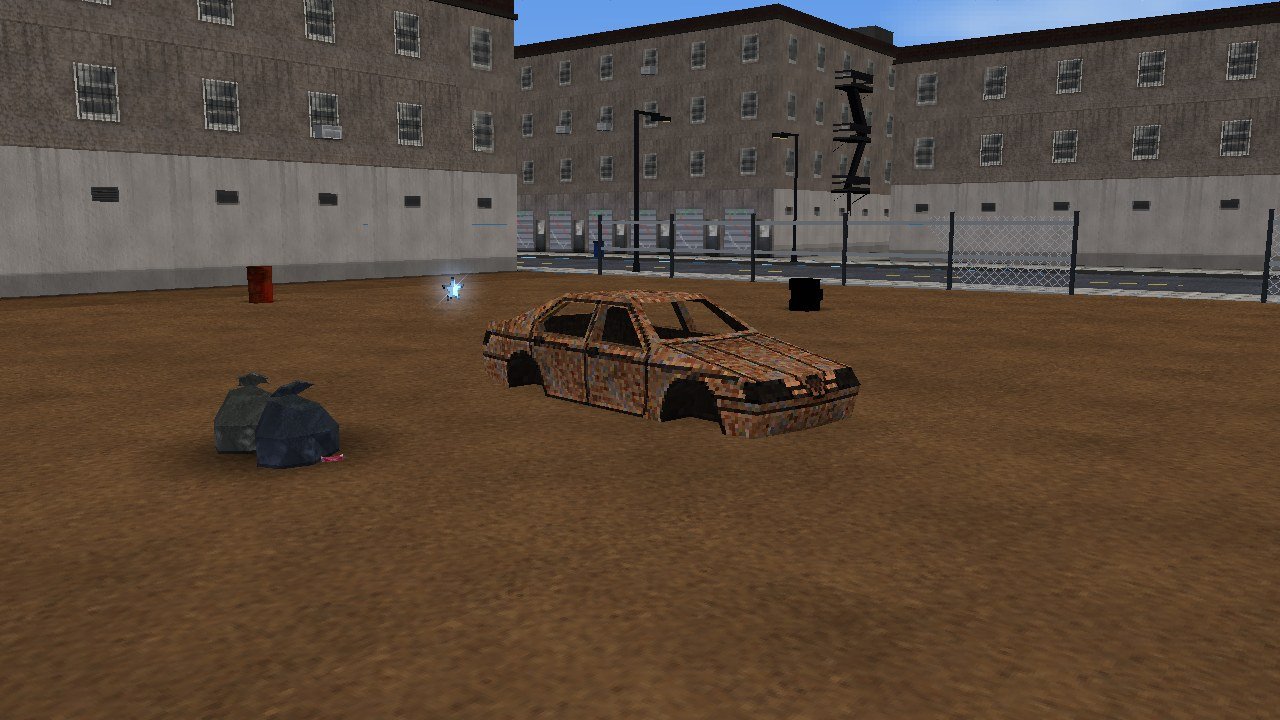
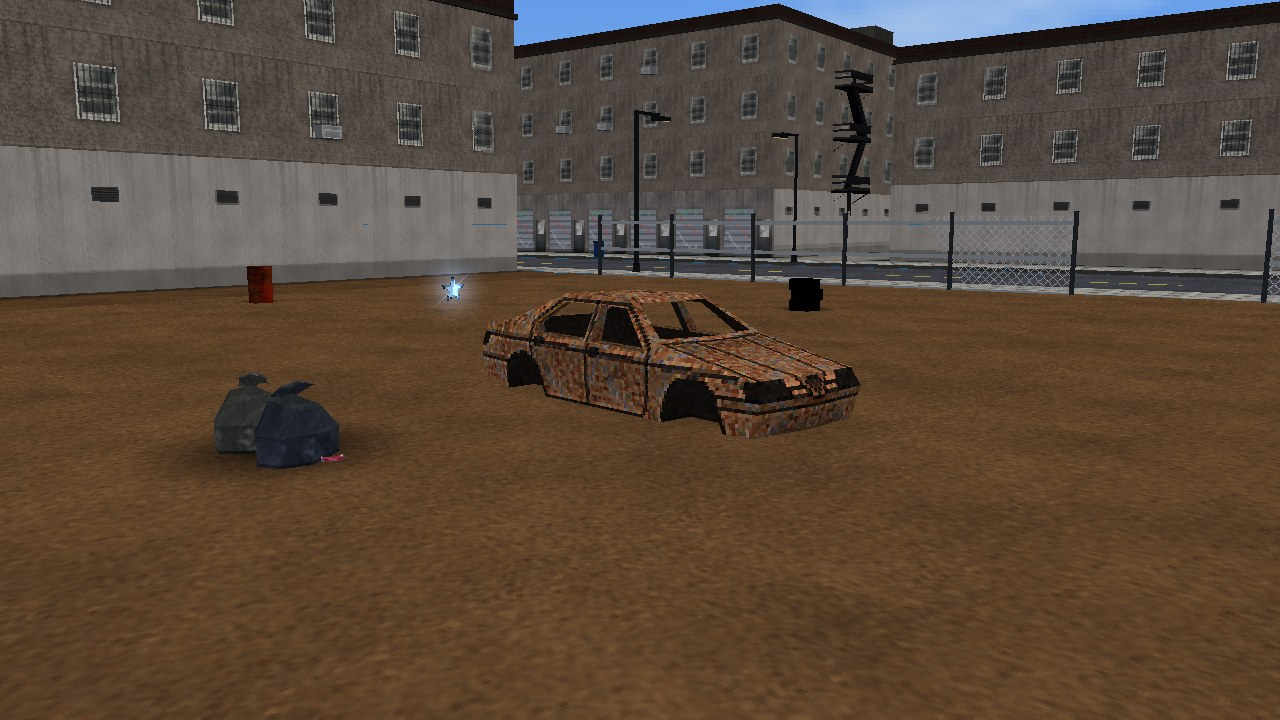
WIP 0.8.0: README, CREDITS, снимки

Changed region(s): [[0.625, 0.0, 0.75, 0.0611], [0.8125, 0.0, 0.9688, 0.0306]]

diff --git a/tools/make_screenshots.py b/tools/make_screenshots.py
@@ -402,12 +402,12 @@ def main():
     yaw = -0.25
     fx, fy = math.cos(yaw), math.sin(yaw)
     cx, cy = bx + 6.0, by
-    for kind, paint, f, l in (('shade', 3, 0.0, 0.0), ('gti', 0, 0.3, 3.4), ('coupe', 9, -0.2, -3.4),
-                              ('coupe', 1, -5.4, 2.0), ('gti', 6, -5.8, -2.0)):
+    for kind, paint, f, l in (('shade', 3, 0.0, 0.0), ('gti', 0, 0.4, 3.3), ('coupe', 9, -0.1, -3.3),
+                              ('coupe', 1, -5.4, 1.8), ('gti', 10, -5.7, -1.6), ('shade', 5, -5.2, 5.2)):
         v = w.spawn_vehicle(kind, cx + fx * f - fy * l, cy + fy * f + fx * l, yaw, paint=paint)
         v.keep = True
         row.append(v)
-    view(cx + math.cos(yaw - 0.5) * 10.0, cy + math.sin(yaw - 0.5) * 10.0, 2.5, cx - fx * 2.0, cy - fy * 2.0, 0.6)
+    view(cx + math.cos(yaw - 0.45) * 8.2, cy + math.sin(yaw - 0.45) * 8.2, 3.1, cx - fx * 2.4, cy - fy * 2.4, 0.5)
     snap('cars')
     for v in row:
         w.remove_vehicle(v)
@@ -420,12 +420,12 @@ def main():
     q = w.spawn_ped(cx, cy - 4.0, 0.0, story.person_look('bruce'))
     q.keep = True
     w.put_in_vehicle(q, v)
-    harness.run(g, 0.6, keys=('space', 'a'))
-    w.cam.override = (cx + fx * 3.5 - fy * 2.1, cy + fy * 3.5 + fx * 2.1, 1.5, cx + fx * 0.25, cy + fy * 0.25, 0.92)
-    nohelp(('space', 'a'))
+    harness.run(g, 0.6, keys=('space',))
+    w.cam.override = (cx + fx * 3.9 - fy * 1.3, cy + fy * 3.9 + fx * 1.3, 1.6, cx + fx * 0.6, cy + fy * 0.6, 0.98)
+    nohelp(('space',))
     w.hud.show(False)
-    harness.run(g, 0.2, keys=('space', 'a'))
-    snap('hero', ('space', 'a'))
+    harness.run(g, 0.2, keys=('space',))
+    snap('hero', ('space',))
     w.cam.override = None
     pl.leave_vehicle(force=True)
     harness.run(g, 0.6)

diff --git a/assets/models/CREDITS.md b/assets/models/CREDITS.md
@@ -12,9 +12,10 @@
 | Такси (`veh/cab`) | **MoiDev** — «Yellow Taxi/Cab — PS1 Style» (<https://moidev.itch.io/yellow-taxicab-ps1-style>) | CC0 на странице автора; у копии, из которой собрана модель, — CC-BY-SA 4.0, см. примечание | выгрузка модели со Sketchfab в репозитории `Langorithm/3d-models` (`yellow_taxicab_-_ps1_car/`) |
 | Чоппер «Ворон» (`veh/b_chop`) | **Duhgless** — «Another PSX Style Low Poly Bike» (<https://duhgless.itch.io/another-psx-style-low-poly-bike>) | CC0 | репозиторий `webbertakken/citymap` (`apps/web/public/models/vehicles/motorbike.glb`) |
 | Уличный мусор: контейнер, бочка, мешок, коробка, бутылка, банка (`props.json`, `assets/tex/px_*`) | **Daniel Jurys** — «PSX Waste» (<https://daniel-jurys.itch.io/psx-waste>) | CC0 | копия набора в репозитории `morganholly/bike-bullet-delivery` (`enviroment/PSX-Waste`) |
-| Плашки интерфейса (`assets/tex/ui_panel`, `ui_band`, `ui_plate`, `ui_alert`) | **ROHHSA** — «Free PSX UI» (<https://rohhsa.itch.io/free-psx-ui>) | CC0 | копия набора в репозитории `Balwanek-ola/haven-2026` (`FREEPSXUI/`) |
-| Маршрутка и старый седан «Ржавчина» (`veh/hiace`, `veh/dacia`) | **Elbolilloduro** — «Pack of low poly psx style models» | см. примечание | сборник `M3-org/retro3d-assets` (`Large_kits/Models pack psx`) |
-| Седан «Кирпич» (`veh/volvo`) | файл `Vehicles/volvo.blend` сборника; по его списку это, по-видимому, **GGBot** — «European small family car (1960s and 1970s)» | см. примечание | сборник `M3-org/retro3d-assets` |
+| **Машина героя «Ласточка»** (`veh/retro`) | **Bricchi Games** — «Retro Car With Interior» (<https://bricchi-games.itch.io/retro-car-with-interior>) | **CC BY 4.0** (<https://creativecommons.org/licenses/by/4.0/>): автора нужно называть; см. примечание | копия набора `Retro Car-1.0` в репозитории `Alekssandher/The-Gandmas-House` (`assets/Retro Car-1.0/`) |
+| Седан «Тень» и машина агентов (`veh/sus`) | **MoiDev** — «Suspicious Car — PSX Style Car» (<https://moidev.itch.io/a-suspicious-car-for-your-projects>) | CC0 | копия в репозитории `muricristino/walking-simulator-paulista` (`assets/cars/moidev/`) |
+| Хэтчбек «Зажигалка» (`veh/golf`) | **designersoup** — «PS1 Pixel Art Style Car» (<https://designersoup.itch.io/ps1-pixel-art-style-car>) | слова автора: «cc0 – no attribution required for personal or commercial projects but must not be resold» | копия в репозитории `Soursop-Pop/Roadtrip` (`Assets/Prefabs/car/`) |
+| Купе «Катана» (`veh/coupe`) | **boggle** — «PSX Car — 2 Seater Coupe» (<https://boggle.itch.io/2-seater-coupe>) | файла лицензии нет; автор разрешает использовать в проектах и запрещает перепродавать как ассет, см. примечание | копия в репозитории `KopiOCoder/FormulaCyber` (`cars/japanese_2_seater_coupe/`) |
 | Автобус (`veh/bus`) | код проекта, `tools/gen_bus.py` | — | — |
 | Мотоцикл-круизер (`veh/b_moto`): с достроенным оборудованием — «Странник», патрульный, трайк «Мамонт», «Тайга» с коляской | **Kenney** — Starter Kit Racing | CC0 | репозиторий автора `KenneyNL/Starter-Kit-Racing` |
 | Городской велосипед (`veh/b_cycle`) | файл `Vehicles/bike_vintage (unfinished).blend` сборника; автор в его списке не назван | см. примечание | сборник `M3-org/retro3d-assets` |
@@ -92,25 +93,21 @@ Elbolilloduro (`src/lib/RigConfig.ts`).
 от Quaternius (`tools/import_models.py weapons`); бутылка — тоже его, из набора Survival
 (`tools/import_vehicles.py bottle`): раньше «коктейлем Молотова» служила модель зажигательной гранаты.
 
-## Примечание о новых машинах и велосипеде
+## Примечание о городском велосипеде
 
-Маршрутка и старый седан взяты из того же набора Elbolilloduro, что и мебель (в сборнике он лежит ещё и одним
-файлом — `Large_kits/Models pack psx`), на тех же условиях: модели лежат в собранном виде как часть игры, автор
-назван, сам набор берите у автора.
-
-Седан «Кирпич» и городской велосипед лежат в папке `Vehicles` сборника отдельными файлами, без подписи.
+Городской велосипед лежит в папке `Vehicles` сборника `M3-org/retro3d-assets` отдельным файлом, без подписи.
 О сборнике в целом сказано: всё в нём можно использовать в коммерческих проектах, без указания авторства и без
 условия «распространять на тех же условиях»; в исходном сборнике (`Miziziziz/Retro3DGraphicsCollection`), из
-которого он вырос, от авторов требуется выкладывать работы под CC0. Чьи именно эти два файла, мы установить не
-смогли:
+которого он вырос, от авторов требуется выкладывать работы под CC0. Чей это файл, мы установить не смогли: он
+называется «bike_vintage (unfinished)», в списке сборника его нет. Седла в нём не было: оно взято из набора
+Quaternius.
 
-- «Кирпич» — в списке сборника из машин значится только «European small family car (1960s and 1970s)» автора
-  GGBot; что это именно он — догадка, страницу автора мы открыть не смогли;
-- велосипед — файл называется «bike_vintage (unfinished)», в списке сборника его нет. Седла в нём не было:
-  оно взято из набора Quaternius.
+Если автор попросит убрать модель, её нужно будет заменить: функция `bike_cycle` в `tools/import_vehicles.py`,
+соответствие видам техники — в `game/bikemodels.py`.
 
-Если автор попросит убрать модель, её нужно будет заменить: таблицы — в `tools/import_vehicles.py`
-(`CARS`, функции `bike_*`), соответствие видам техники — в `game/models.py` и `game/bikemodels.py`.
+До версии 0.8.0 из того же сборника были взяты ещё три машины — седан «Кирпич», маршрутка и старый седан
+«Ржавчина» на отдельных моделях. Теперь их нет: «Кирпич» убран, маршрутка и «Ржавчина» снова собраны на кузовах
+GGBot, файлы моделей удалены.
 
 ## Примечание о мотоциклах
 
@@ -155,11 +152,35 @@ Elbolilloduro (`src/lib/RigConfig.ts`).
 
 ## Примечание о моделях с itch.io
 
-Такси, чоппер, уличный мусор и плашки интерфейса авторы выложили на itch.io как CC0 (адреса страниц — в
-таблице). Скачать файлы прямо со страниц при сборке проекта не получилось, поэтому взяты их копии из открытых
-репозиториев на GitHub; какой репозиторий и какая его версия — записано в таблице `SOURCES` в
-`tools/import_vehicles.py`, команда `fetch` скачивает ровно эти файлы.
+Такси, чоппер, уличный мусор и четыре машины — «Тень», «Зажигалка», «Катана» и «Ласточка» — взяты у авторов,
+которые выкладывают свои работы на itch.io (адреса страниц — в таблице). Скачать файлы прямо со страниц при
+сборке проекта не получилось, поэтому взяты их копии из открытых репозиториев на GitHub; какой репозиторий и
+какая его версия — записано в таблице `SOURCES` в `tools/import_vehicles.py`, команда `fetch` скачивает ровно
+эти файлы. Условия использования — те, что назвал автор на своей странице; что написано в репозитории-копии,
+значения не имеет.
 
+- **Машина героя («Ласточка»).** «Retro Car With Interior», автор **Bricchi Games**, лицензия **Creative
+  Commons Attribution 4.0 International**: использовать и изменять можно, в том числе в коммерческих проектах,
+  при условии, что автор назван. В игре он назван в титрах и на странице «Авторы» главного меню, в `README.txt`
+  сборки, в `README.md` и здесь. Что изменено: из набора взят файл `Car.fbx` (по описанию автора — 3092
+  треугольника, двенадцать деталей) и четыре текстуры 1024×1024 — белая, чёрная, синяя и красная. Модель приведена к осям и размерам
+  игры (ширина 1,71 м, длина 4,73 м) и записана в `.bam`; колёса отделены; текстура уменьшена до 512×512; по
+  различиям между четырьмя окрасками найдена краска кузова — так машину можно перекрашивать в любой цвет;
+  стёкла выделены в отдельную часть (в игре они тёмные и прозрачные), рулевое колесо — в отдельную деталь (оно
+  поворачивается); записаны места водителя и трёх пассажиров. Карта свечения из набора не использована. Двери,
+  капот и багажник — отдельные детали набора — в игре не открываются.
+- **«Тень».** «Suspicious Car — PSX Style Car» автора MoiDev, CC0: 846 треугольников, шесть окрасок 256×256.
+  В копии файл назван `sedan.obj`, а на переднем номере вместо надписи автора нарисована своя; текстуры взяты
+  как есть. Колёсные арки у модели нарисованы на бортах: игра вырезает их по отдельной картинке
+  (`veh/sus_cut.png`). Краска найдена по различиям между окрасками. На той же модели ездят агенты.
+- **«Зажигалка».** Хэтчбек designersoup («PS1 Pixel Art Style Car», Mk2 Golf GTI). В копии — OBJ, сохранённый
+  её владельцем из исходного `golfps1.fbx`, и одна красная текстура 512×512. Окраска одна, поэтому краска
+  найдена по цвету: красные точки кузова, кроме задних фонарей.
+- **«Катана».** Двухместное купе boggle: в файле половина кузова (вторая получается отражением), колесо —
+  отдельным файлом, десять окрасок 128×128. Файла лицензии в наборе нет. В обсуждении на странице набора автор
+  пишет, что модель можно свободно включать в коммерческие и некоммерческие проекты, но нельзя перепродавать
+  как ассет или в наборе ассетов. Мы понимаем это так же, как условие designersoup: в игре — можно, продавать
+  саму модель — нельзя. Если вам нужна модель, берите её у автора.
 - **Такси.** Копия — выгрузка модели со Sketchfab; в приложенном к ней `license.txt` указана лицензия
   **CC-BY-SA 4.0**: «Yellow Taxi/Cab — PS1 Car», автор MoiDev. На странице той
   же модели на itch.io автор пишет, что это CC0 и указывать его не обязательно. Мы поступаем по более строгому
@@ -174,17 +195,28 @@ Elbolilloduro (`src/lib/RigConfig.ts`).
 - **Мусор.** Шесть моделей `.glb` с текстурами 128×128 и 256×256. Импорт приводит их к настоящим размерам
   (контейнер 1,4 × 2,0 × 1,4 м, бочка 0,6 × 0,9 м, мешок по пояс), заливает пустые места текстур цветом
   соседних точек и записывает треугольники в `props.json`.
-- **Плашки.** Из набора взята одна картинка — пустая плашка `Cropped_Text-Block` в четырёх расцветках
-  (стальная синяя, бордовая, серо-оливковая, красная), размер 864×240, приведён к 512×128. Остальные картинки
-  набора — готовые экраны с английскими надписями — не использованы.
 - **Остов машины на пустырях** — это кузов `veh/wreck` из набора GGBot (он уже был в игре как модель сгоревшей
   машины), записанный в `props.json` рядом с мусором.
 
-Ещё три модели, которые просили добавить, — два других мотоцикла Duhgless («PSX Style Low Poly Bike»,
-«Yet Another PSX Style Low Poly Bike») и его же автомобиль «PSX Style Low Poly Car» — в игру не вошли:
-их файлов нет ни в одном открытом репозитории, а со страниц itch.io при сборке проекта они не скачиваются.
-Лицензия у них та же, CC0; чтобы добавить их, достаточно положить файлы `.glb` в `.cache/model_src/new/` и
-описать в `tools/import_vehicles.py` по образцу `bike_chop` и таблицы `CARS`.
+В версии 0.7.0 меню и рамки на экране были обтянуты плашками набора «Free PSX UI» (ROHHSA, CC0). В 0.8.0
+интерфейс снова плоский, а картинки набора из игры убраны.
+
+### Чего в игре нет, хотя просили
+
+Файлов этих моделей нет ни в одном открытом репозитории, а со страниц itch.io при сборке проекта они не
+скачиваются:
+
+- **Waleed_dev — «Retro PS1 Police Car»**, полицейский Chevrolet Caprice 1978 года
+  (<https://waleed-dev.itch.io/retro-ps1-police-car-low-poly-survival-horror-vehicle>), архив
+  `ps1-police-car-chevrolet-caprice-1978.zip`. Условия автора: бесплатно для коммерческих и некоммерческих
+  инди-игр, упоминание автора приветствуется.
+- **Pomidorka Studios — «70's Chevy Van»** (<https://pomidorka-studios.itch.io/van>), архив
+  `70schevyvan-bypomidorkastudios.zip`. Лицензия CC BY 4.0: автора нужно будет назвать.
+- **Duhgless** — два других мотоцикла («PSX Style Low Poly Bike», «Yet Another PSX Style Low Poly Bike») и
+  автомобиль «PSX Style Low Poly Car», CC0.
+
+Чтобы добавить любую из них, достаточно положить файлы из архива автора в `.cache/model_src/new/` и описать
+модель в `tools/import_vehicles.py` — по образцу таблицы `CARS` (машины) или функции `bike_chop` (мотоциклы).
 
 ## Шрифты
 
@@ -213,9 +245,12 @@ Russo One и Dela Gothic One — вывески и заставка.
 - У сборных людей тело обрезается сразу над воротником (у каждой модели он на своей высоте), голова — там же у
   своей модели; край тела подгоняется к кольцу шеи и привязывается к тем же костям, так что между шеей и
   воротником нет щели ни в покое, ни в движении. Кожа головы подводится по тону к коже тела.
-- `tools/import_vehicles.py` делает машины с одной фототекстурой (краску находит по цвету кузова, стёкла и
-  фары не трогает), мотоцикл и велосипеды (отделяет вилку и колёса, приводит пропорции к настоящим, снимает
-  посадку ездока и подводит руль к его рукам, достраивает подножки, педали и седло), детали тюнинга и бутылку.
+- `tools/import_vehicles.py` делает такси и машины с itch.io: приводит их к настоящим размерам, отделяет колёса
+  и находит краску кузова — по различиям между окрасками набора, а если окраска одна, по цвету (стёкла, фары
+  и шины не красятся). У машины с салоном он выделяет стёкла и рулевое колесо в отдельные части и записывает
+  места сидящих. Он же делает мотоцикл и велосипеды (отделяет вилку и колёса, приводит пропорции к настоящим,
+  снимает посадку ездока и подводит руль к его рукам, достраивает подножки, педали и седло), детали тюнинга и
+  бутылку.
 - `tools/import_furniture.py` собирает мебель: склеивает соприкасающиеся части в один предмет, ставит его на пол
   и уменьшает текстуры. `tools/gen_interior.py` готовит текстуры комнат из материалов Classic64.
 - `tools/gen_city.py` собирает из материалов текстуры фасадов и первых этажей: кладёт на стену окна и двери,
